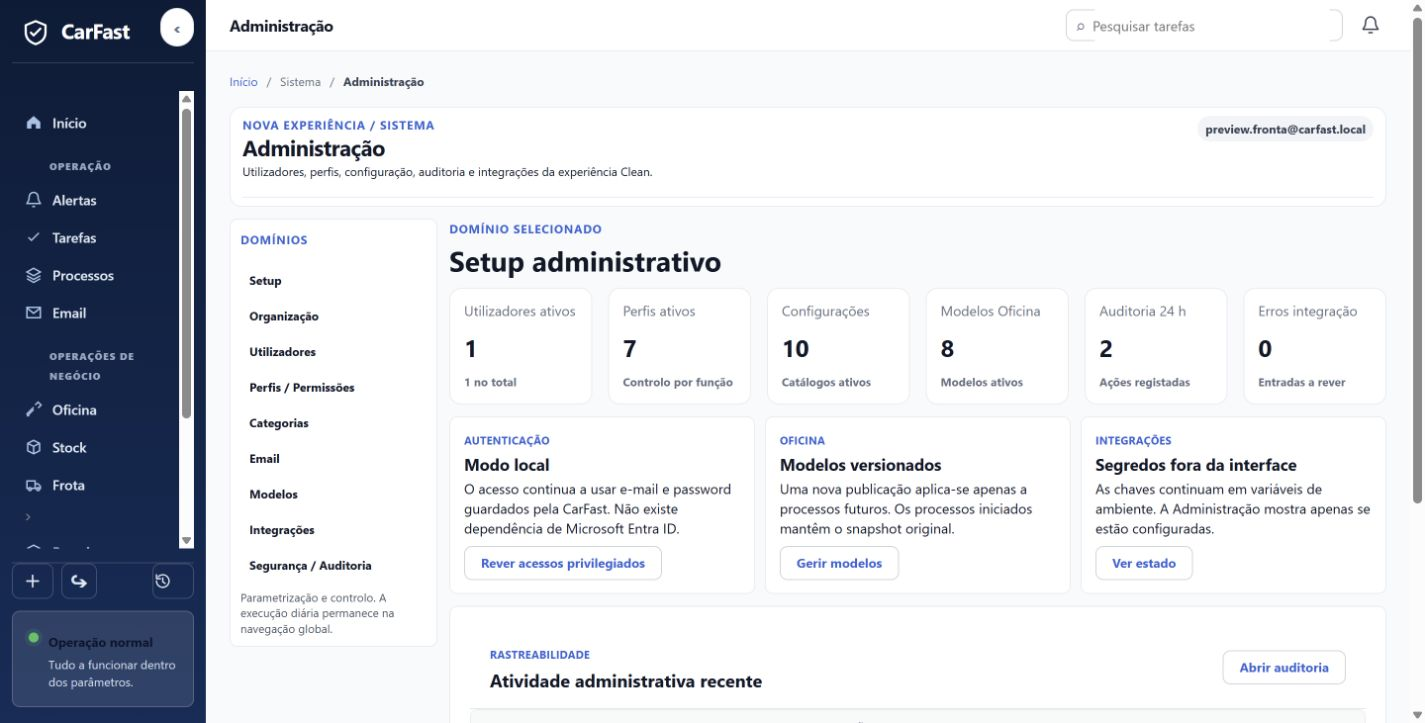
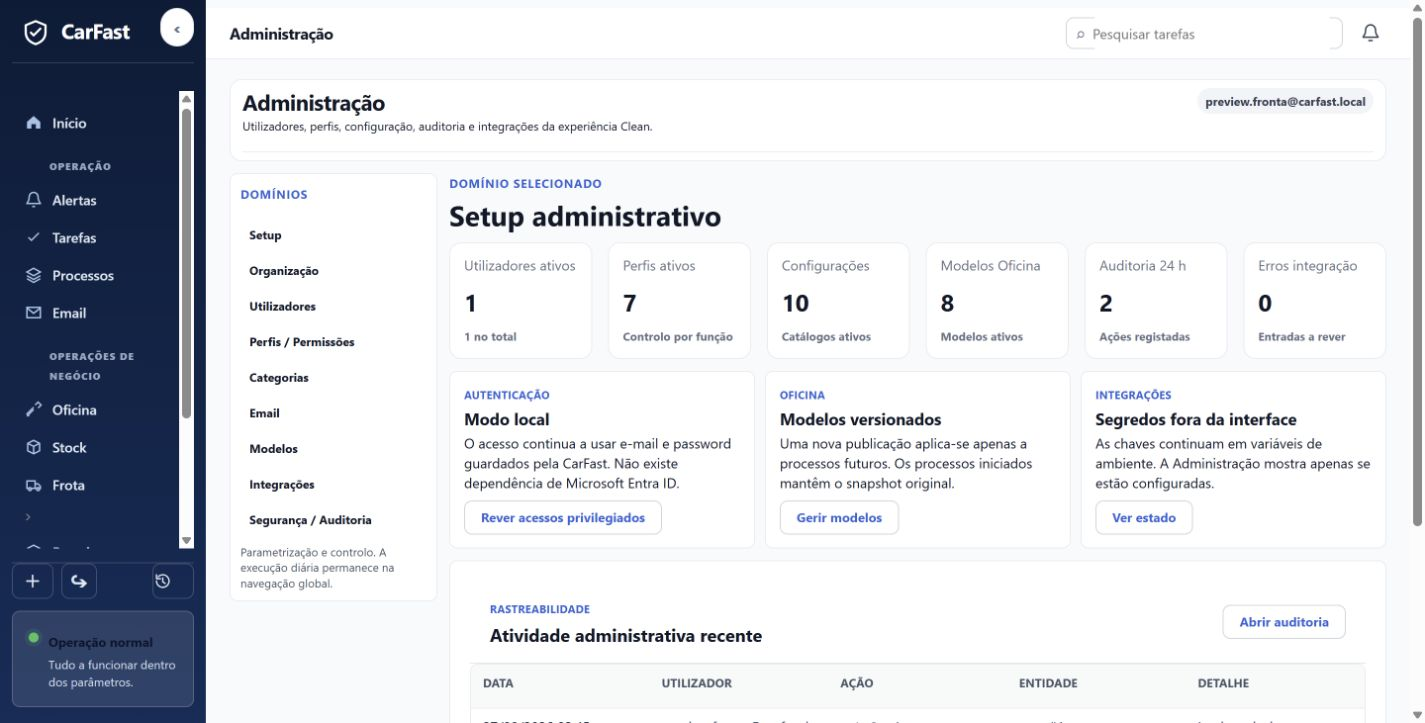
fix(front-a): prove compact filled desktop workbenches

diff --git a/app/templates/clean_documentation_triage.html b/app/templates/clean_documentation_triage.html
@@ -56,7 +56,7 @@
             <a data-document-view-link class="visual-document-row{% if selected_row and selected_row.document.id == row.document.id %} active{% endif %}" href="?q={{ q|urlencode }}&origin={{ origin|urlencode }}&confidence={{ confidence|urlencode }}&page={{ pagination.page }}&page_size={{ pagination.page_size }}&selected={{ row.document.id }}&view=preview&return_context=queue">
               <span class="visual-document-status{% if (row.workflow.suggestion_confidence or 0) < 0.6 %} danger{% elif (row.workflow.suggestion_confidence or 0) >= 0.9 %} success{% endif %}" aria-hidden="true"></span>
               <span><strong>{{ row.title }}</strong><small>DOC-{{ row.document.id }} · {{ row.origin }}</small></span>
-              <span><strong>{{ workflow_labels.get(row.workflow.suggested_invoice_nature, "Por reconhecer") }}</strong><small>{% if (row.workflow.suggestion_confidence or 0) < 0.6 %}Baixa confiança{% elif (row.workflow.suggestion_confidence or 0) >= 0.9 %}Alta confiança{% else %}Em validação{% endif %} · {{ row.date_display }}</small></span>
+              <span><strong>{{ workflow_labels.get(row.workflow.suggested_invoice_nature, "Por reconhecer") }}</strong><small>{% if row.workflow.validation_status == "human_validated" %}Validado{% elif row.workflow.validation_status == "blocked" %}Bloqueado{% elif (row.workflow.suggestion_confidence or 0) < 0.6 %}Baixa confiança{% elif (row.workflow.suggestion_confidence or 0) >= 0.9 %}Alta confiança{% else %}Em validação{% endif %} · {{ row.date_display }}</small></span>
             </a>
           {% else %}<p class="doc-arch-empty">Nenhum documento corresponde aos filtros.</p>{% endfor %}
         </div>
@@ -72,7 +72,7 @@
       <aside class="visual-document-review" aria-label="OCR e dados extraídos">
         <header><h2>OCR e dados extraídos</h2><p>Confirme a classificação e o destino.</p></header>
         {% if selected_row %}
-          <div class="visual-document-confidence"><span><small>Classificação</small><strong>{{ workflow_labels.get(selected_row.workflow.suggested_invoice_nature, "Por reconhecer") }}</strong></span><span><small>Confiança</small><strong>{{ ((selected_row.workflow.suggestion_confidence or 0) * 100)|round|int }}%</strong></span></div>
+          <div class="visual-document-confidence"><span><small>Classificação</small><strong>{{ workflow_labels.get(selected_row.workflow.suggested_invoice_nature, "Por reconhecer") }}</strong></span><span><small>Confiança</small><strong>{{ ((selected_row.workflow.suggestion_confidence or 0) * 100)|round|int }}%</strong></span><span><small>Validação</small><strong>{% if selected_row.workflow.validation_status == "human_validated" %}Validado{% elif selected_row.workflow.validation_status == "blocked" %}Bloqueado{% else %}Pendente{% endif %}</strong></span></div>
           <section class="visual-document-matching"><h3>Correspondência</h3><dl><div><dt>Origem</dt><dd>{{ selected_row.origin }}</dd></div><div><dt>Associação</dt><dd>{{ workflow_labels.get(selected_row.workflow.association_status, selected_row.workflow.association_status) }}</dd></div><div><dt>Destino</dt><dd>{{ workflow_labels.get(selected_row.workflow.destination_status, selected_row.workflow.destination_status) }}</dd></div></dl></section>
           <section class="visual-document-associate"><h3>Associar e decidir</h3>
             {% set row = selected_row %}<form method="post" action="/v2-clean/documentation/triage/{{ row.document.id }}">

diff --git a/app/static/css/ui-contract-v1.css b/app/static/css/ui-contract-v1.css
@@ -47,7 +47,12 @@
 .ui-contract-v1 .visual-global-search { height: var(--ui-control-compact); }
 .ui-contract-v1 .visual-icon-action { width: var(--ui-control-compact); height: var(--ui-control-compact); }
 .ui-contract-v1 .visual-breadcrumbs { padding: 8px 0 4px; font-size: 12px; }
+.ui-contract-v1 .visual-breadcrumbs { display: none; }
 .ui-contract-v1 .clean-content { display: grid; gap: var(--ui-page-gap); align-content: start; }
+.ui-contract-v1 .clean-content > header .eyebrow { display: none; }
+.ui-contract-v1 .clean-content > header { margin-top: 8px; }
+.ui-contract-v1 .clean-content > header > :last-child,
+.ui-contract-v1 .clean-content > header .visual-document-heading + * { white-space: nowrap; }
 .ui-contract-v1 :is(.clean-panel,.ui-panel,.visual-panel) { border-radius: var(--ui-panel-radius); }
 
 /* Centro de Tarefas: contract first-fold at 1440x731. */

diff --git a/tests/test_front_a_fur_desktop_gate.py b/tests/test_front_a_fur_desktop_gate.py
@@ -30,6 +30,17 @@ def test_fur_sidebar_and_actions_encode_stable_geometry():
     assert ":is(button,.button-link,.visual-button,.clean-action-button)" in css
 
 
+def test_fur_headers_and_document_states_are_explicit_and_compact():
+    css = _read("app/static/css/ui-contract-v1.css")
+    documents = _read("app/templates/clean_documentation_triage.html")
+    assert ".visual-breadcrumbs { display: none; }" in css
+    assert ".clean-content > header .eyebrow { display: none; }" in css
+    assert "Validação" in documents
+    assert "Validado" in documents
+    assert "Bloqueado" in documents
+    assert "Baixa confiança" in documents
+
+
 def test_fur_email_and_documents_preserve_queue_until_explicit_selection():
     email_js = _read("app/static/js/email.js")
     documents = _read("app/templates/clean_documentation_triage.html")

diff --git a/docs/evidence/front-a-preview-no-go-fix/EVIDENCE.md b/docs/evidence/front-a-preview-no-go-fix/EVIDENCE.md
@@ -16,9 +16,15 @@ Data: 2026-08-27. Candidato: `codex/front-a-preview-no-go-fix`, derivado de `e8d
 - `email-list-1440x731.png`
 - `email-preview-treatment-1440x731.png`
 - `documentation-list-preview-1440x731.png`
+- `documentation-low-confidence-1440x731.png`
+- `documentation-validated-1440x731.png`
+- `documentation-blocked-1440x731.png`
 - `workshop-first-fold-1440x731.png`
+- `email-triage-1440x731.png`
+- `email-response-pending-1440x731.png`
+- `email-low-confidence-1440x731.png`
 
-As medições DOM confirmaram ausência de overflow horizontal global nas cinco vistas. Email lista apresentou 3 linhas; a seleção manteve as 3 linhas acessíveis e abriu o painel amplo de triagem, validação e resposta na mesma página.
+As medições DOM confirmaram ausência de overflow horizontal global nas cinco vistas. Email lista apresentou 3 linhas; a seleção manteve as 3 linhas acessíveis e abriu o painel amplo de triagem, validação e resposta na mesma página. Documentação manteve 3 itens na fila e provou baixa confiança, validado e bloqueado com preview e decisão no mesmo contexto. Breadcrumb e kicker duplicados foram removidos transversalmente na fundação visual.
 
 ## Matriz binária
 
@@ -40,6 +46,6 @@ Comando focado/regressão Front A:
 
 `python -m pytest -q tests/test_email_triage_preview.py tests/test_clean_admin.py tests/test_front_a_fur_desktop_gate.py tests/test_clean_workshop_v2_flow.py tests/test_navigation_rbac.py tests/test_clean_documentation_architecture.py`
 
-Resultado: **114 passed**, 5 warnings deprecatórias SWIG, zero falhas.
+Resultado: **115 passed**, 5 warnings deprecatórias SWIG, zero falhas.
 
 As revisões independentes detetaram lacunas P1 em save de fase adversarial e nos percursos enviar/aprovar com outbound OFF. Todas foram corrigidas com rejeição anterior à mutação e cobertas por testes negativos antes da revisão final.
